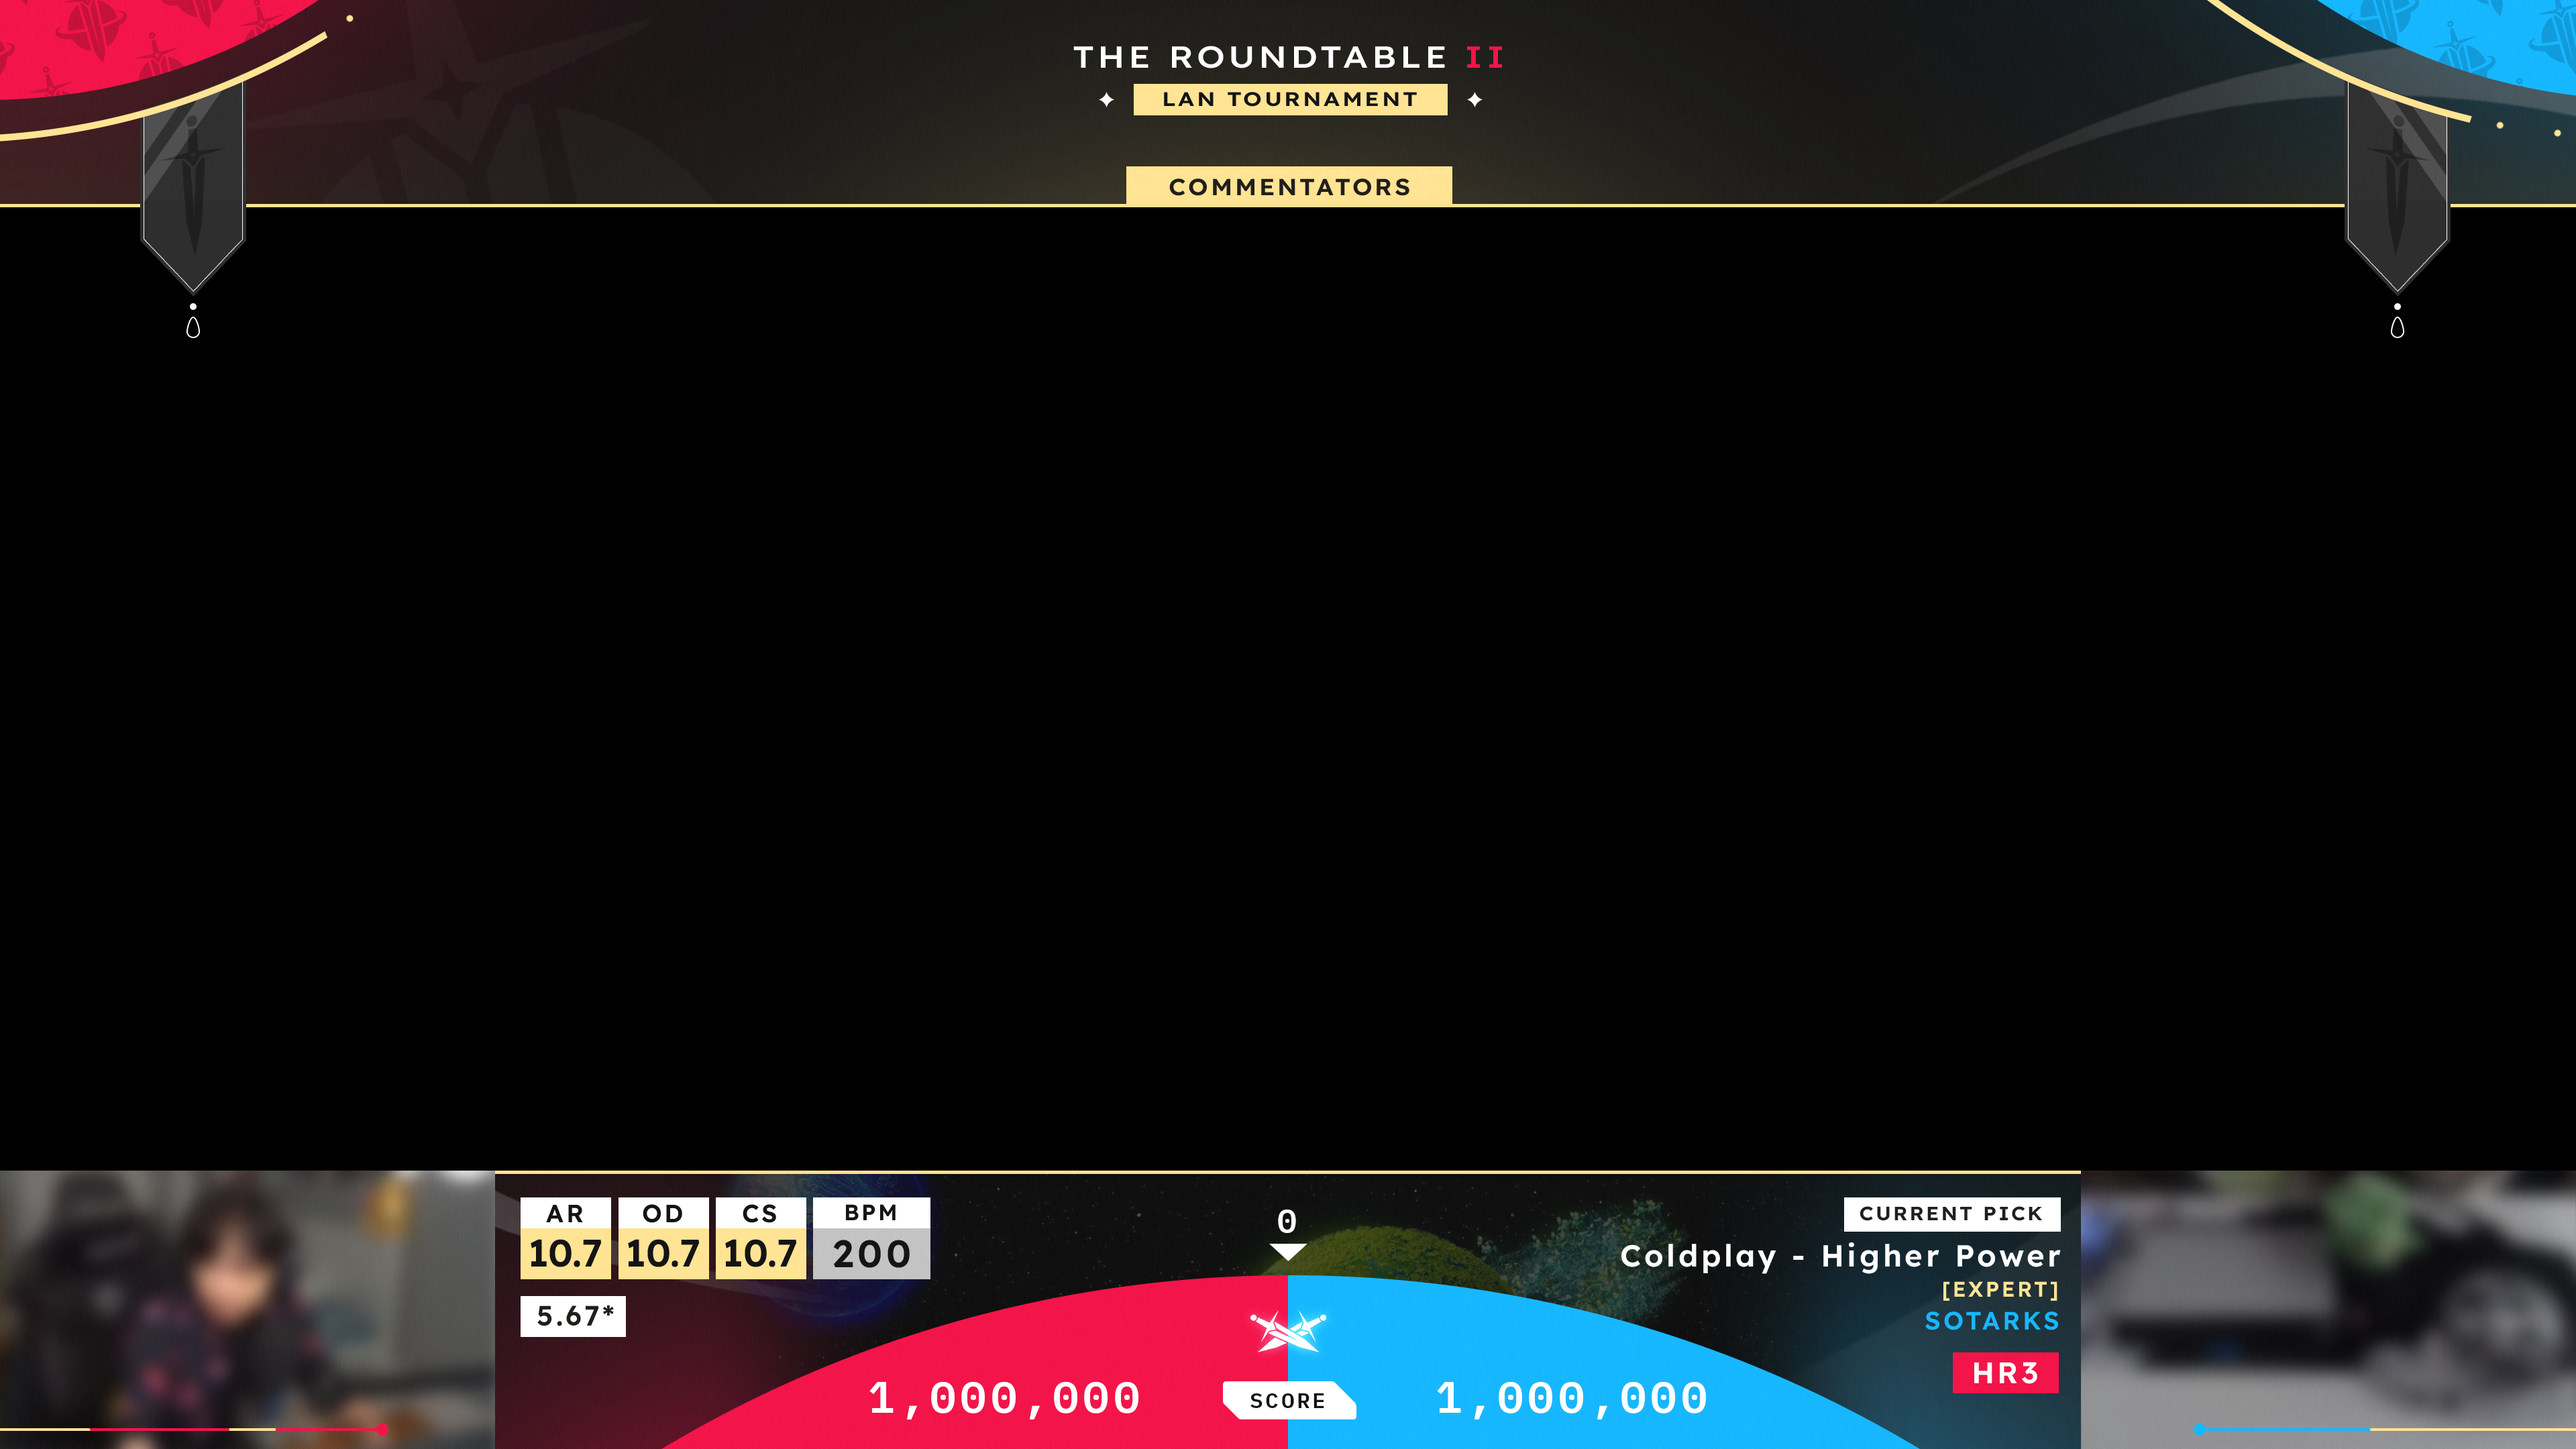
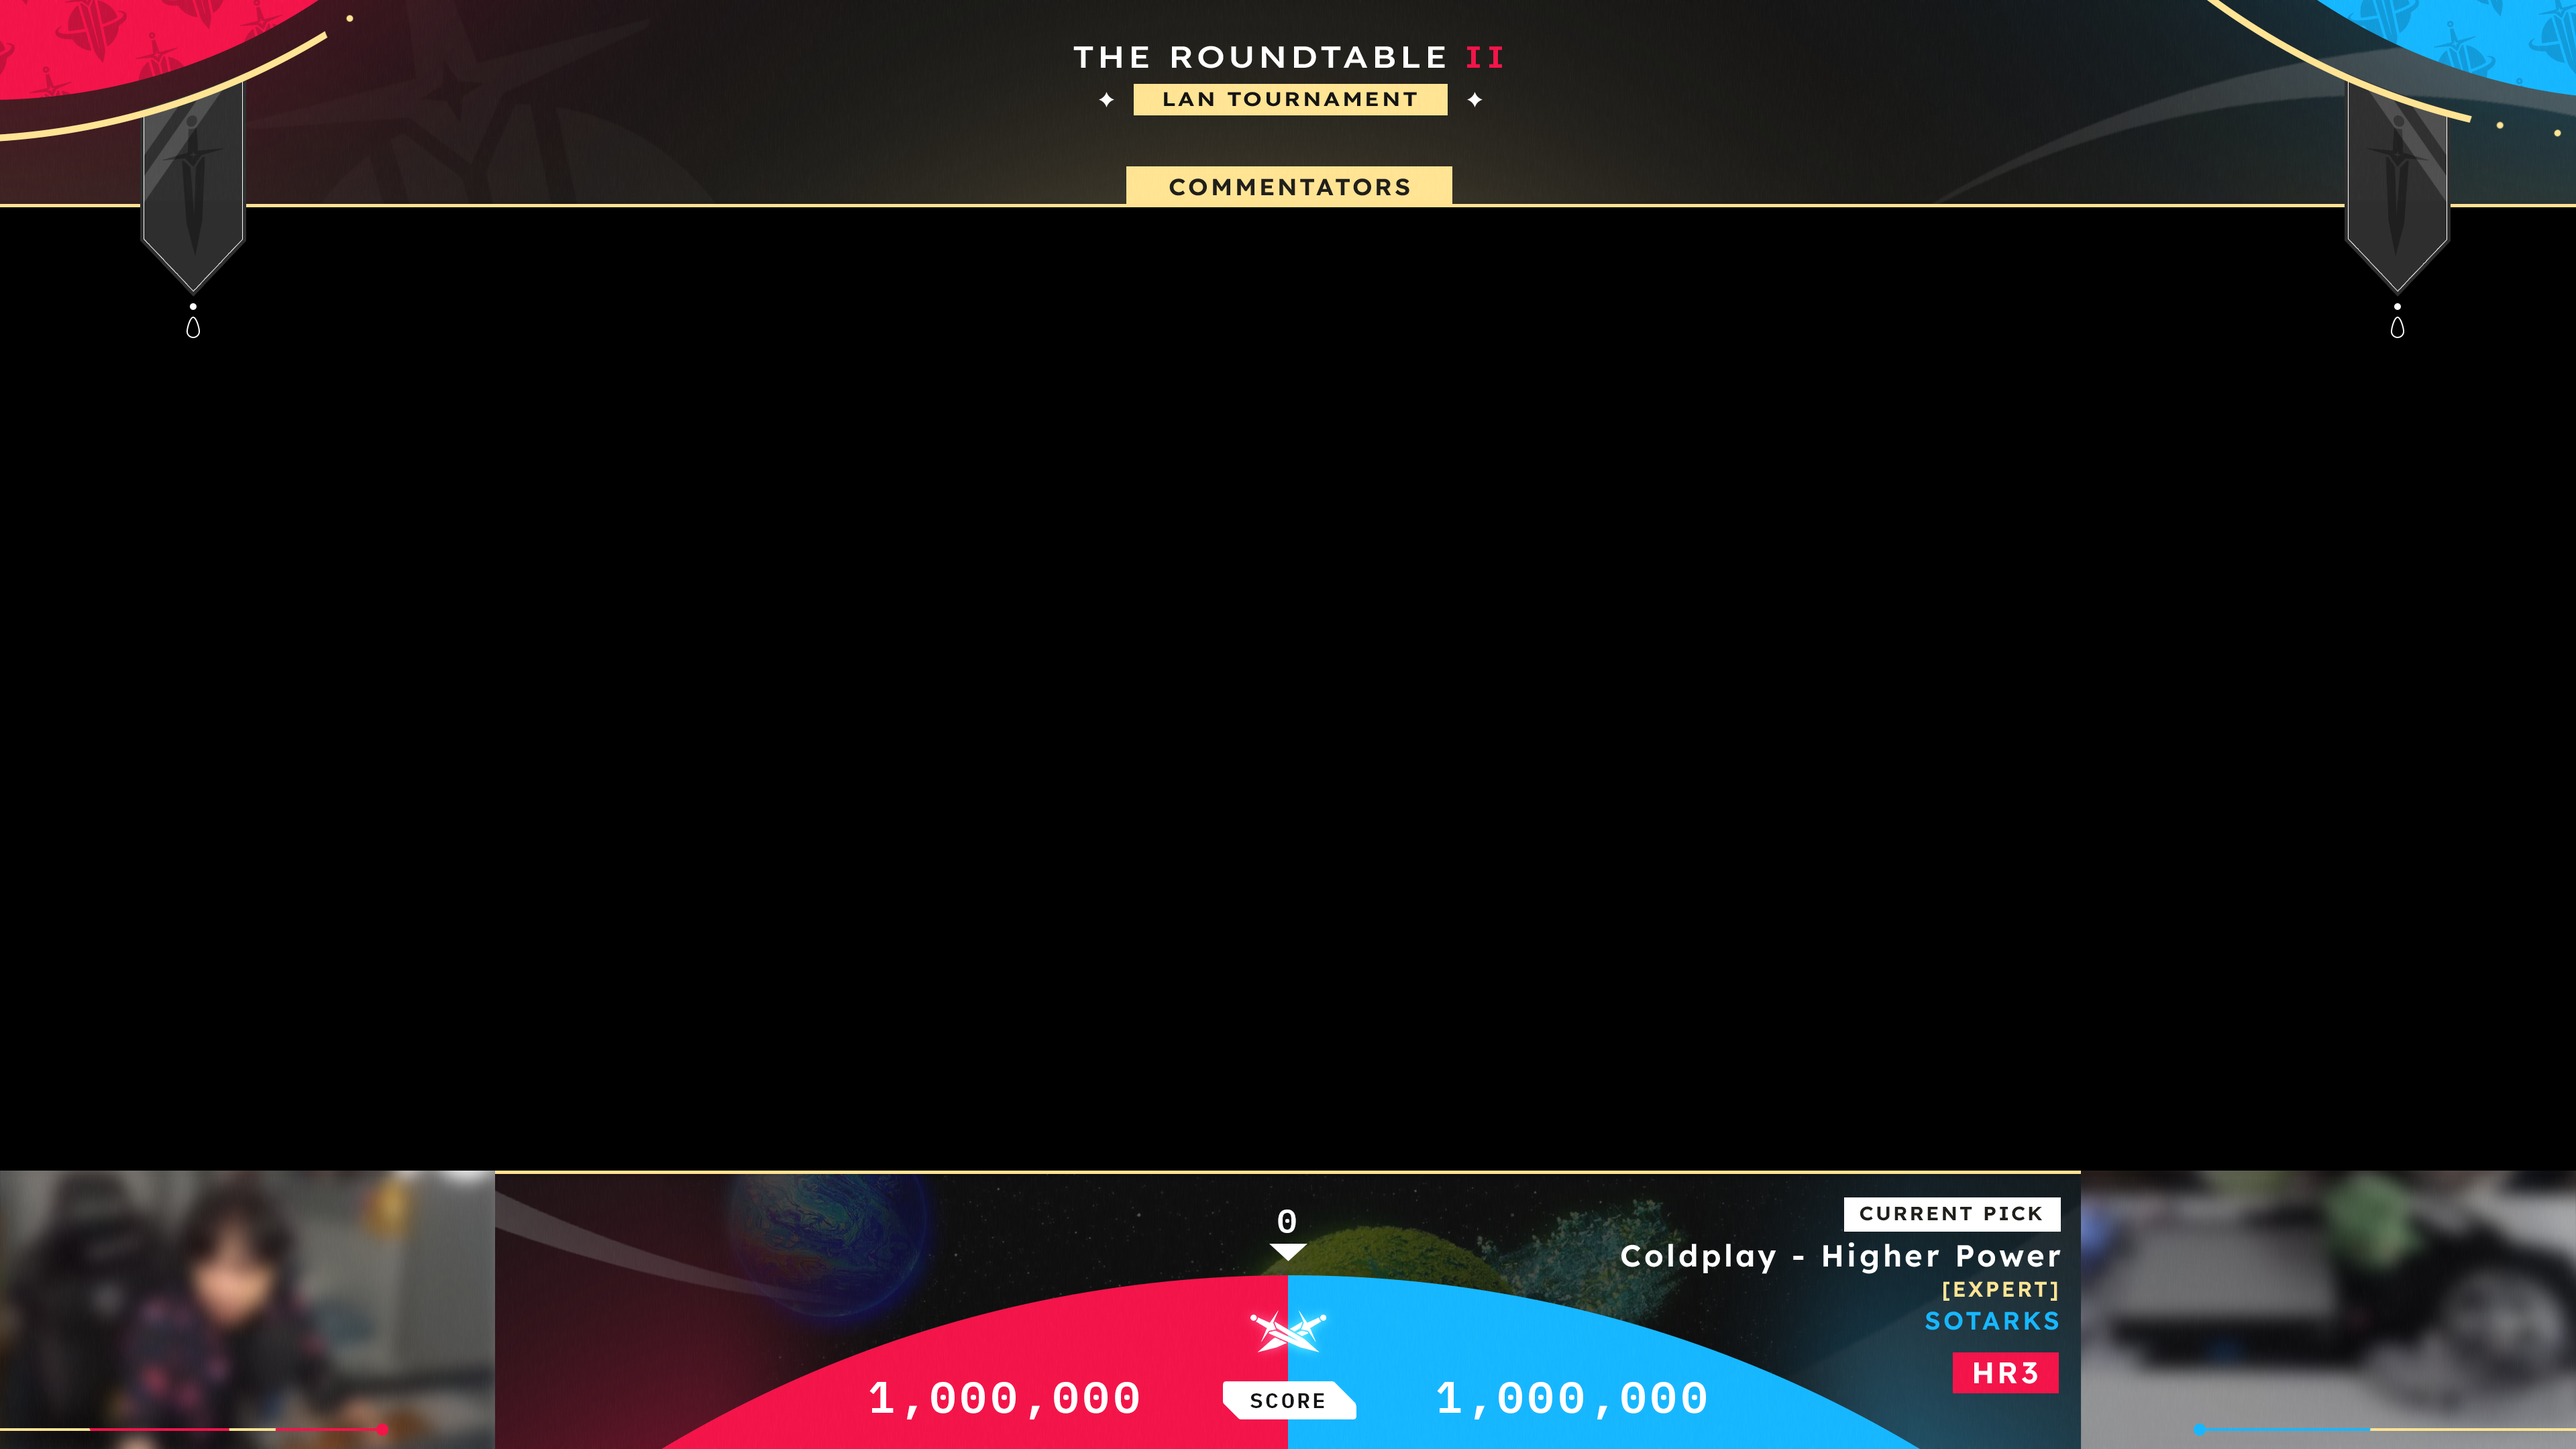
Style Map Stats

Changed region(s): [[0.1875, 0.8065, 0.375, 0.9306]]

diff --git a/gameplay/css/style.css b/gameplay/css/style.css
@@ -1,7 +1,9 @@
 :root {
-    --playerRankYellow: #fff692;
     --blue: #16b3f8;
+    --lightGray: #C2C2C2;
     --red: #ed144a;
+    --yellow: #fff692;
+    --lightYellow: #ffe696;
 }
 
 #main {
@@ -18,7 +20,7 @@
 
 /* Player Details */
 .playerRank{
-    color: var(--playerRankYellow);
+    color: var(--yellow);
     font-family: 'Lexend'; font-size: 36px;
     letter-spacing: 4px;
 }
@@ -90,16 +92,43 @@
     width: 1182px; height: 205px;
     border-width: 2px 0px 0px 0px;
     border-style: solid;
-    border-color: var(--playerRankYellow);
+    border-color: var(--yellow);
 }
 
 /* Map Stats */
 #mapStats { 
     position: absolute; top: 18px; left: 19px;
-    width: 300px;
+    width: 400px;
 }
 .topLineStatBox {
-    width: 68px; height: 61px;
-    background-color: rgba(0,0,0,0.5);
+    width: 67px; height: 61px;
     display: inline-block;
+    margin-right: 2px;
+}
+.mapStatsTexts {
+    width: inherit; 
+    font-family: 'Lexend'; 
+    text-align: center;
+}
+.mapStatsTitle {
+    height: 22px;
+    line-height: 22px;
+    font-size: 18px;
+    background-color: white;
+}
+.mapStatsNumber {
+    height: 39px;
+    line-height: 39px;
+    font-size: 28px;
+    background-color: var(--lightYellow)
+}
+#BPMStat { 
+    width: 85px; 
+    background-color: var(--lightGray);
+}
+#SRStat {
+    position: absolute; top: 73px;
+    background-color: white;
+    font-family: 'Lexend'; font-size: 20px;
+    padding: 3px 15.5px;
 }

diff --git a/gameplay/index.html b/gameplay/index.html
@@ -56,10 +56,23 @@
 		</section>
 		<section id="bottomSection">
 			<section id="mapStats">
-				<div class="topLineStatBox" id="ARStat"></div>
-				<div class="topLineStatBox" id="CSStat"></div>
-				<div class="topLineStatBox" id="ODStat"></div>
-				<div class="topLineStatBox" id="BPMStat"></div>
+				<div class="topLineStatBox" id="ARStat">
+					<div class="mapStatsTexts mapStatsTitle">AR</div>
+					<div class="mapStatsTexts mapStatsNumber">10.7</div>
+				</div>
+				<div class="topLineStatBox" id="CSStat">
+					<div class="mapStatsTexts mapStatsTitle">OD</div>
+					<div class="mapStatsTexts mapStatsNumber">10.7</div>
+				</div>
+				<div class="topLineStatBox" id="ODStat">
+					<div class="mapStatsTexts mapStatsTitle">CS</div>
+					<div class="mapStatsTexts mapStatsNumber">10.7</div>
+				</div>
+				<div class="topLineStatBox" id="BPMStat">
+					<div class="mapStatsTexts mapStatsTitle">BPM</div>
+					<div class="mapStatsTexts mapStatsNumber">200</div>
+				</div>
+				<div id="SRStat">5.67*</div>
 			</section>
 		</section>
 	</div>
